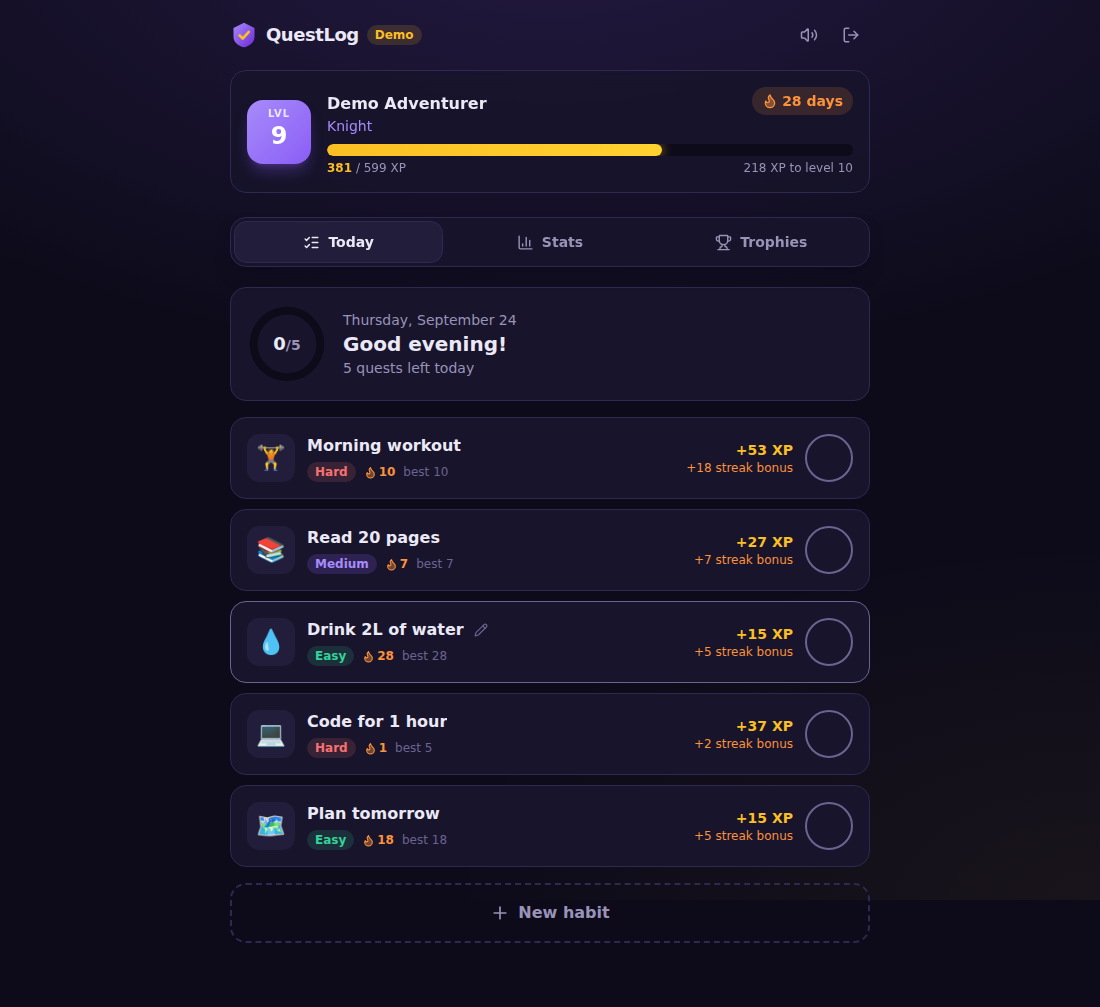
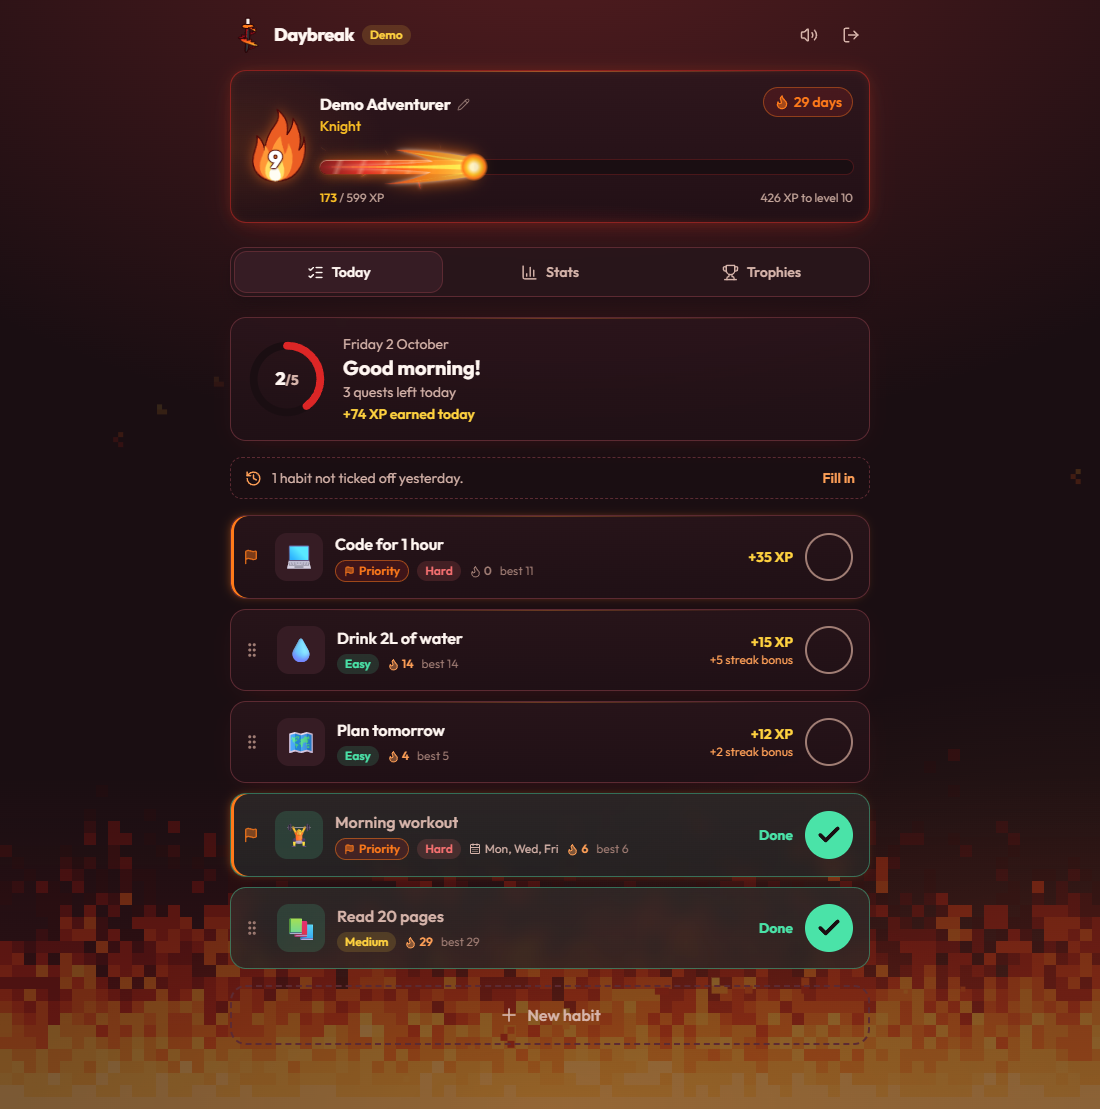
Update the README and screenshots for Daybreak

diff --git a/README.md b/README.md
@@ -1,30 +1,52 @@
-# Daybreak ⚔
+<p align="center">
+  <img src="public/logo.svg" alt="" width="96" />
+</p>
+
+# Daybreak
 
 *Formerly QuestLog.*
 
-**A gamified daily habit tracker.** Complete habits to earn XP, level up, keep streaks alive and unlock trophies, with confetti, sound effects and level-up fanfare to make each tick feel rewarding.
+**A gamified daily habit tracker with a fiery look.** Complete habits to earn XP, level up, keep streaks alive and unlock trophies, with confetti, sound effects and a level-up fanfare to make each tick feel rewarding.
+
+**Try it:** [daybreak-pearl.vercel.app](https://daybreak-pearl.vercel.app). Click **Try the demo** to play without an account.
 
 <p>
-  <img src="docs/today.png" alt="Today view" width="520" />
-  <img src="docs/levelup.png" alt="Level-up celebration on mobile" width="200" />
+  <img src="docs/today.png" alt="Today view: habits with streaks, priority labels and a Mon, Wed, Fri schedule" width="520" />
+  <img src="docs/schedule.png" alt="New habit form on a phone, with the Repeat on day picker" width="200" />
 </p>
 
 <p>
-  <img src="docs/stats.png" alt="Stats view with XP chart and activity heatmap" width="520" />
-  <img src="docs/trophies.png" alt="Trophy cabinet" width="200" />
+  <img src="docs/stats.png" alt="Stats view with XP chart, activity heatmap and completion rates" width="520" />
+  <img src="docs/trophies.png" alt="Trophy cabinet on a phone" width="200" />
 </p>
 
 ## Features
 
-- **Daily habits** that reset every day, each with an icon and difficulty (Easy / Medium / Hard)
-- **XP & levels.** Harder habits give more XP. A streak adds +5% per day, up to +50%. Level titles go from *Novice* to *Mythic*.
+**Habits**
+- Daily habits with an icon and a difficulty (Easy, Medium or Hard)
+- **Custom schedules:** pick the weekdays a habit repeats on (e.g. Mon, Wed, Fri). Streaks only count due days, and a habit can still be done on an off day as an extra.
+- **Priority** labels: priority habits are listed first, and finished habits move to the bottom
+- **Drag to reorder** (or use the arrow keys)
+- **Turn habits off** without losing their history, and back on again later
+- **Fill in the last 7 days:** forgot to tick something yesterday? Fill it in for the XP it would have earned, and keep your streak.
+
+**Game**
+- **XP and levels.** Harder habits give more XP, and a streak adds +5% per day, up to +50%. Level titles go from *Novice* to *Mythic*, and the flame-shaped level badge grows and burns fiercer as you climb.
 - **Streaks** per habit and overall, with current and best values
 - **14 trophies** in bronze, silver and gold tiers, with progress bars for locked ones
-- **Celebrations**: a confetti burst from the button, floating "+XP" text, synthesized sound effects, a level-up modal and a perfect-day celebration
-- **Stats**: 30-day XP chart, a 16-week activity heatmap, and completion rate per habit
-- **Accounts** with Supabase Auth, data in Postgres, and Row Level Security
-- **Demo mode**: try it without an account; data is kept in the browser
-- Mobile-first layout, keyboard accessible, respects `prefers-reduced-motion`
+- **Celebrations:** confetti, floating "+XP" text, synthesized sound effects, a level-up dialog and a perfect-day celebration
+
+**Insights**
+- **Daily overview:** tap any day to see what was done, what was missed and the XP earned
+- **Stats:** 30-day XP chart, a 16-week activity heatmap and a completion rate per habit
+
+**App**
+- **Installable** as an app on phones and desktops (PWA), and it opens offline
+- **Accounts** with Supabase Auth and a username, with data in Postgres behind Row Level Security
+- **Demo mode:** try everything without an account; data stays in the browser
+- Mobile-first, keyboard accessible, and respects `prefers-reduced-motion` and the mute button
+
+All changes are listed in the [changelog](CHANGELOG.md).
 
 ## Tech stack
 
@@ -35,21 +57,23 @@
 | Server state | TanStack Query (optimistic updates) |
 | Backend | Supabase (Postgres + Auth + RLS) |
 | Charts | Recharts (lazy-loaded) |
+| App install / offline | vite-plugin-pwa (Workbox) |
 | Testing / CI | Vitest, oxlint, GitHub Actions |
+| Hosting | Vercel |
 
 ## Architecture
 
 ```
 src/
-├── game/          # Pure game engine: XP, levels, streaks, badges, stats (+ unit tests)
+├── game/          # Pure game engine: XP, levels, streaks, schedules, badges, stats (+ unit tests)
 ├── data/          # Repo interface with Supabase and demo (localStorage) implementations
 │   ├── repo.ts
 │   ├── supabase.ts
 │   ├── demo.ts
-│   └── queries.ts # TanStack Query hooks, optimistic complete/undo
+│   └── queries.ts # TanStack Query hooks, optimistic complete/undo/reorder
 ├── views/         # Today, Stats, Trophies, Auth, Shell
-├── components/    # HabitCard, PlayerCard, HabitForm, Modal, celebrations
-└── lib/           # dates, sound (Web Audio), confetti, types
+├── components/    # HabitCard, PlayerCard, HabitForm, DayOverview, Modal, celebrations, fire effects
+└── lib/           # dates, ordering, sound (Web Audio), confetti, types
 supabase/migrations/  # SQL schema + RLS policies
 ```
 
@@ -57,6 +81,7 @@ supabase/migrations/  # SQL schema + RLS policies
 
 - **Completions are the single source of truth.** XP totals, levels, streaks and trophies are *derived* by a pure function (`computeProgress`), not stored as counters. They can't drift out of sync, and changing a game rule doesn't need a data migration.
 - **XP is stored per completion.** The streak bonus depends on the streak at the moment you complete a habit. Recomputing it later would rewrite history.
+- **Schedules keep their history.** Each habit stores when each schedule started, so changing one applies from today on and never turns past days into misses.
 - **Repository pattern.** The UI talks to a `Repo` interface. Supabase and demo mode are two implementations of it, so adding another backend means one new file.
 - **Optimistic updates.** Ticking a habit updates the UI and starts the celebration straight away. If the server rejects the write, the change is rolled back and you see a toast.
 - **Dates are local calendar days** (`YYYY-MM-DD`). Date maths is done at noon UTC, so DST changes can't break a streak (this is tested).
@@ -75,7 +100,7 @@ Open http://localhost:5173 and click **Try the demo**.
 ### 2. Connect Supabase (real accounts and sync)
 
 1. Create a free project at [supabase.com](https://supabase.com).
-2. In the dashboard, open **SQL Editor → New query**, paste the contents of `supabase/migrations/20260924000000_init.sql` and click **Run**.
+2. In the dashboard, open **SQL Editor → New query**, and run each file in `supabase/migrations/` in order (oldest first): paste its contents and click **Run**.
 3. Go to **Project Settings → API** and copy the *Project URL* and the *anon public* key.
 4. Copy `.env.example` to `.env` and fill in both values.
 5. Under **Authentication → URL Configuration**, set the *Site URL* to your app's URL (`http://localhost:5173` for local development, then your deployed URL).
@@ -108,15 +133,19 @@ Open http://localhost:5173 and click **Try the demo**.
 | Medium | 20 |
 | Hard | 35 |
 
-- **Streak bonus:** +5% for each consecutive day you completed the habit before today, up to +50%.
+- **Streak bonus:** +5% for each due day in a row you completed the habit before today, up to +50%.
 - **Level curve:** the total XP needed for level *n* is `60 × (n − 1)^1.8`.
-- A streak stays alive until the end of today and breaks only after a full missed day.
+- A streak stays alive until the end of today and only breaks after a missed **due** day. Days a habit isn't scheduled are skipped.
+- Doing a habit on a day it isn't due is an **extra**: it earns XP but doesn't change its streak.
+- The last **7 days** can be filled in or undone. Older days are locked.
 
-## Roadmap ideas
+## Roadmap
 
-- [ ] Weekly / custom-day schedules (e.g. gym Mon–Wed–Fri)
+- [x] Custom schedules (e.g. gym on Mon, Wed, Fri)
+- [ ] "3 times a week" schedules
 - [ ] One-off tasks alongside daily habits
-- [ ] Daily bonus quests ("complete 3 hard habits")
+- [ ] Daily bonus quests ("complete 3 hard habits before noon")
 - [ ] Coins and a personal reward shop
-- [ ] PWA and push reminders
-- [ ] Drag-to-reorder habits
+- [x] Installable app (PWA)
+- [ ] Reminder notifications
+- [x] Drag-to-reorder habits
